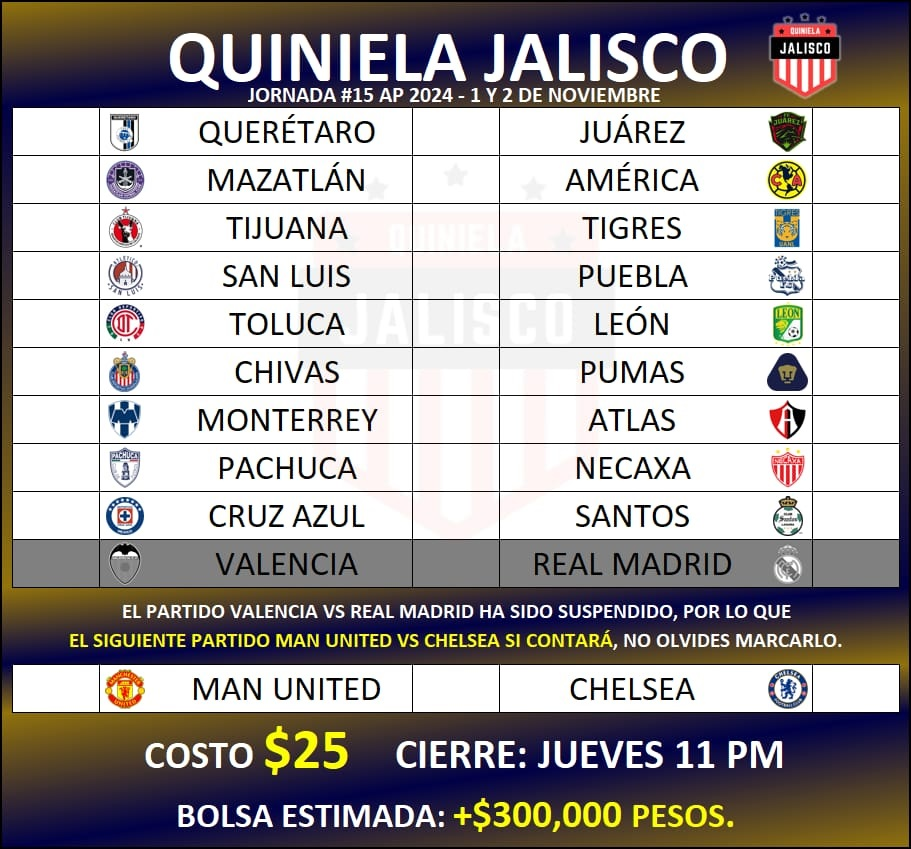
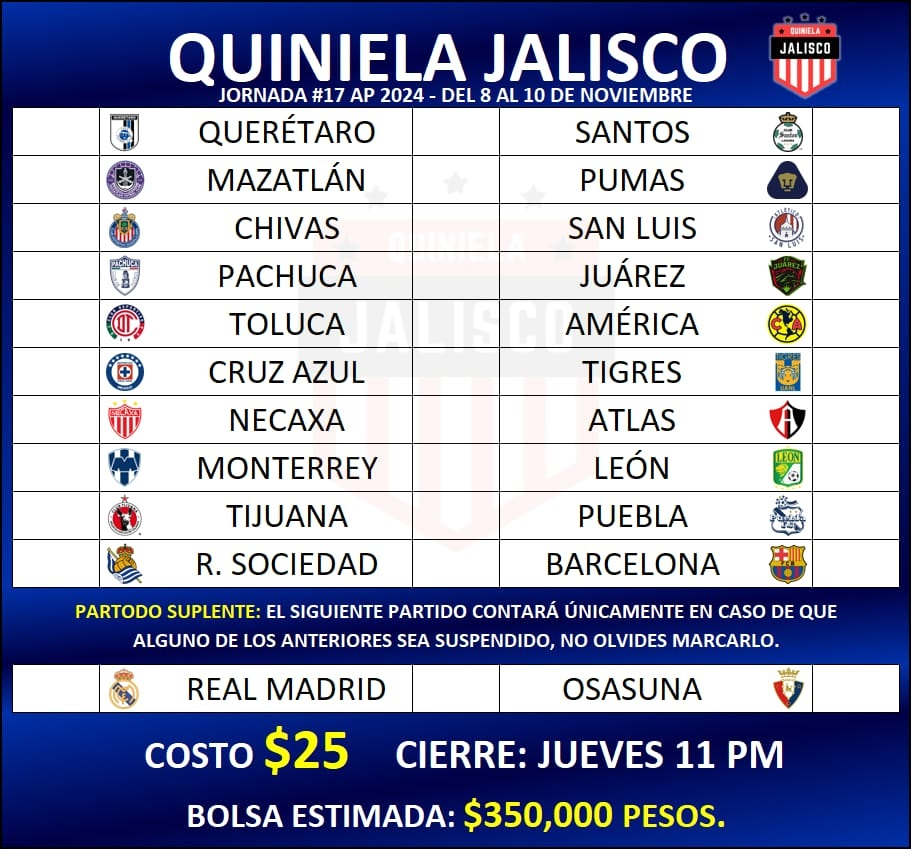
jornada 17 A24

diff --git a/11/styles11.css b/11/styles11.css
@@ -95,8 +95,8 @@ body{
     margin-top: 8.5%;
     border-top: solid 1px black;
     border-radius: 0 0 14px 14px;
-    background: -webkit-linear-gradient(0.49turn, rgb(8 6 67) -7%, rgb(98 75 33) 80%);
-    background: linear-gradient(0.49turn, rgb(8 6 67) -7%, rgb(98 75 33) 80%);
+    background: -webkit-linear-gradient(0.49turn, rgb(8 6 67) -7%, rgb(1 41 153) 80%);
+    background: linear-gradient(0.49turn, rgb(8 6 67) -7%, rgb(1 41 153) 80%);
 }
 
 .text-lg{
@@ -293,7 +293,7 @@ h6{
 }
 
 #cantidad:before{
-    content:'+$300,000 pesos';
+    content:'$350,000 pesos';
     color: yellow;
     white-space:pre;
 }
